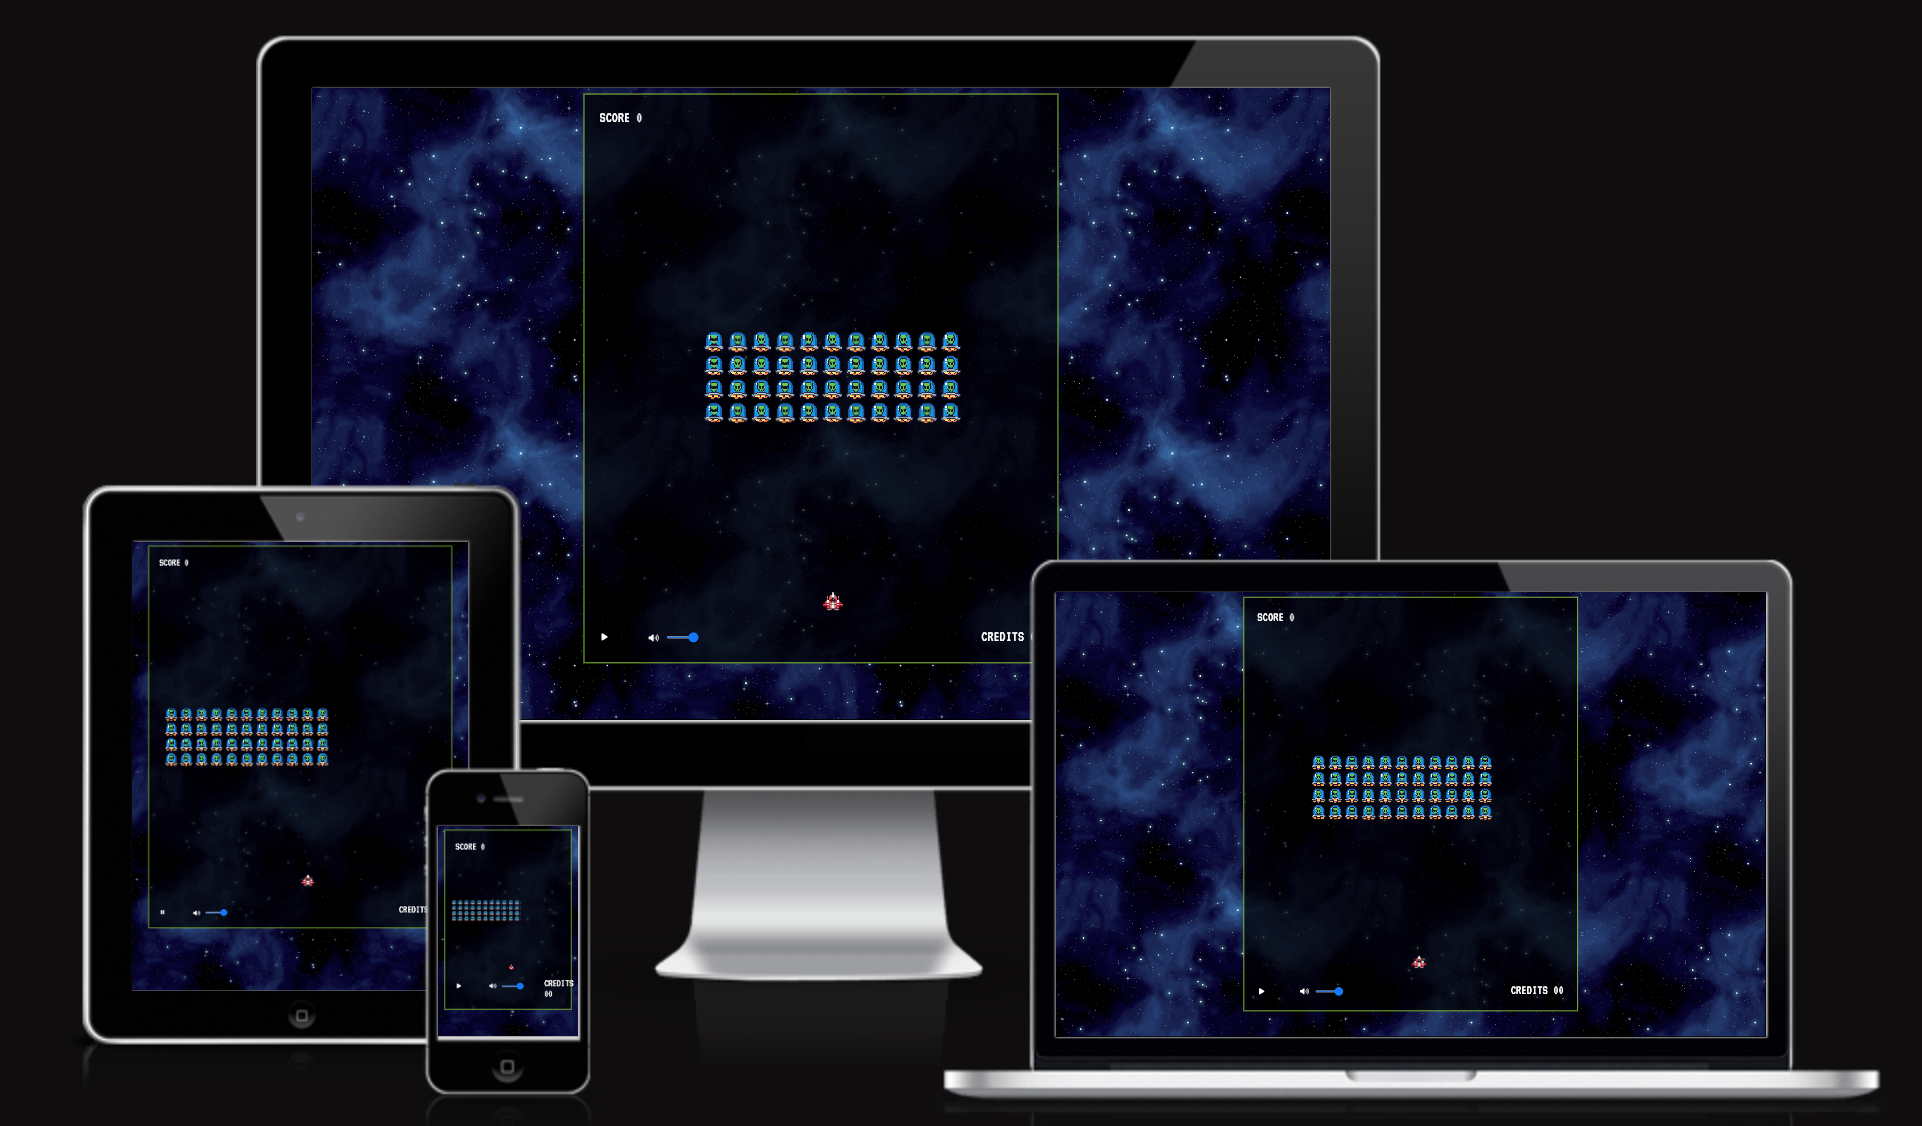
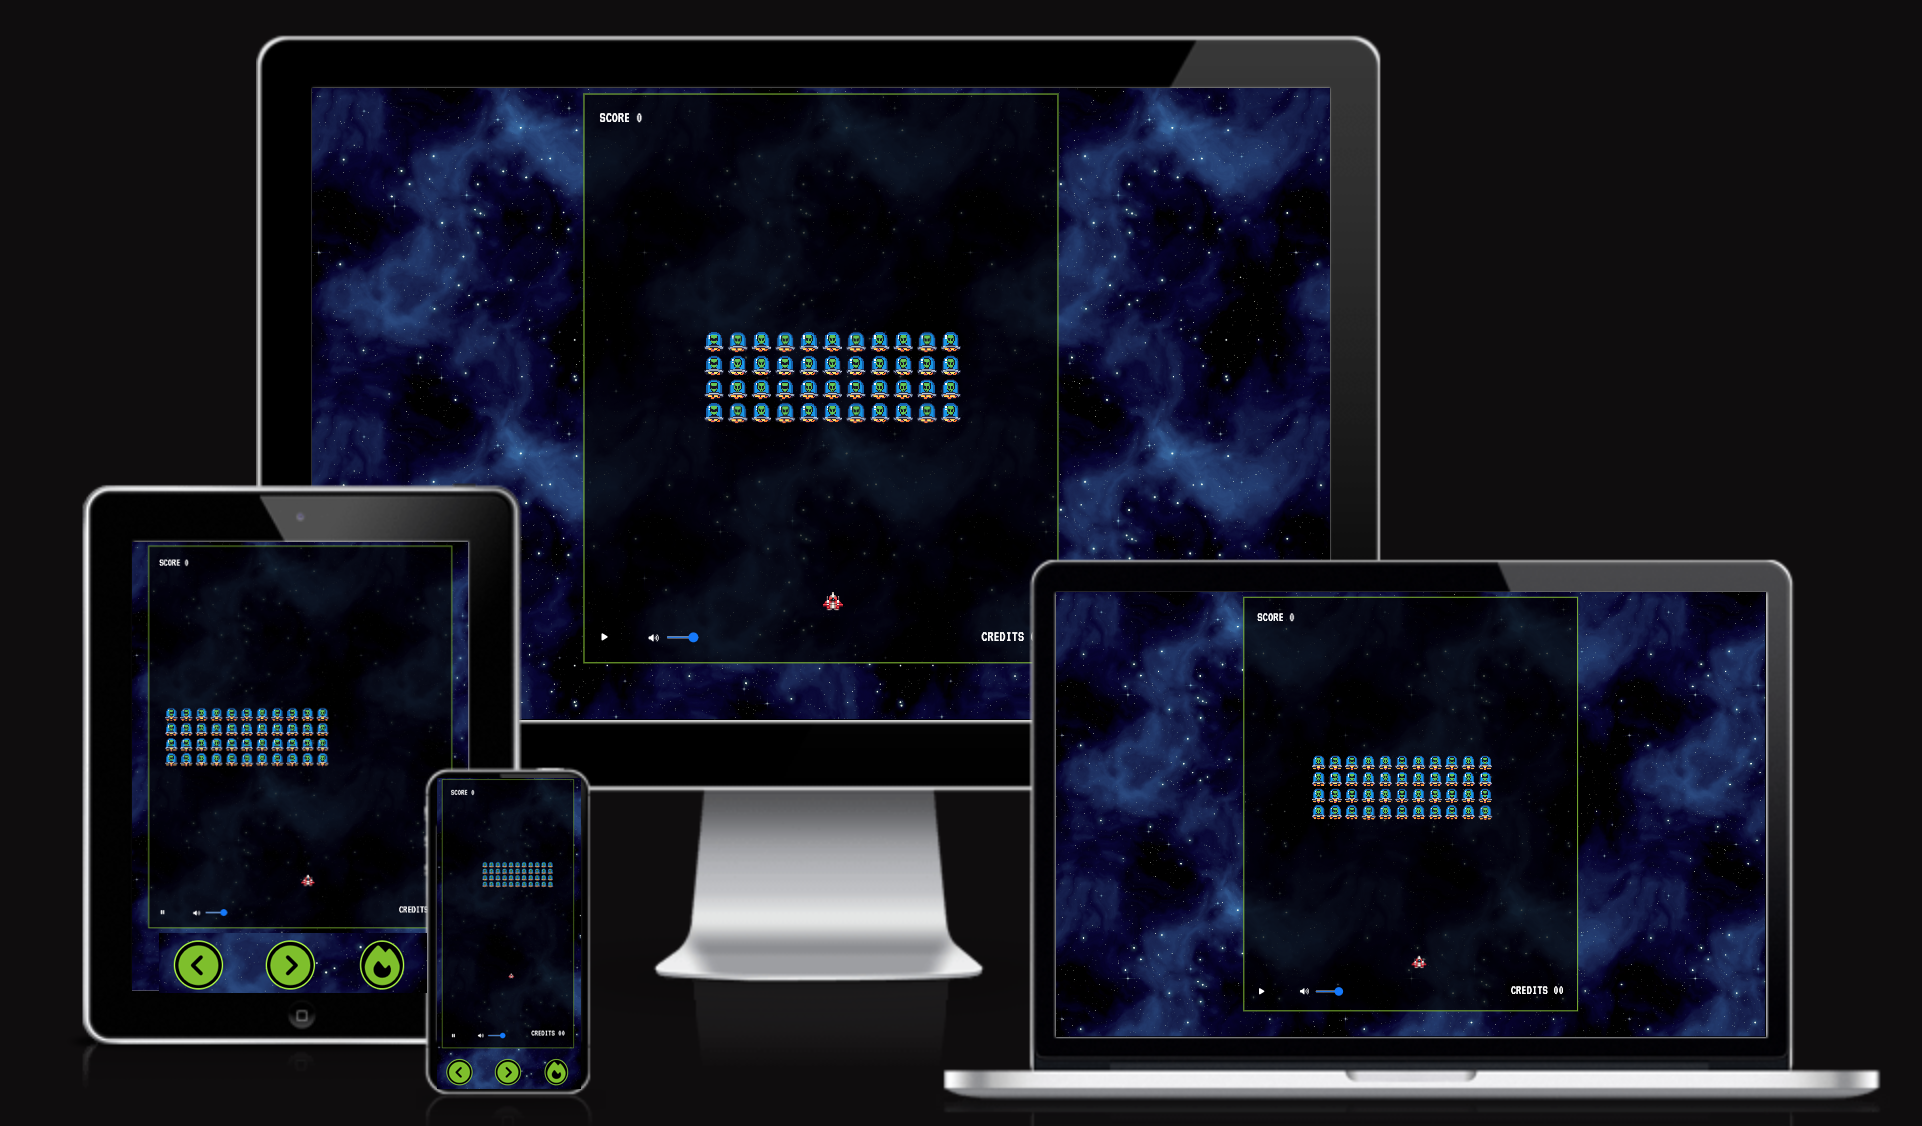
edit readme list of features section

Changed region(s): [[0.0624, 0.6838, 0.3122, 0.9947]]

diff --git a/README.md b/README.md
@@ -9,7 +9,9 @@ Our retro-style alien invader video game is a nostalgic nod to classic titles li
 ### Site Address
 https://cloud-monkey.github.io/alien-assault/index.html
 
-![alien assaulter img](/assets/read-me-images/project-overview-image.png)
+![am I responsive home screen img](/assets/read-me-images/project-overview-image.png)
+
+![am I responsive home screen img](/assets/read-me-images/project-overview-image2.png)
 
 ### Design direction
 Retro aesthetics: Embrace a pixelated 8-bit visual style.
@@ -22,39 +24,40 @@ Hero Section: Appealing title screen, a play button, and an introduction.
 Game Scree: Play area with retro graphics and sound, win and loss scenarios with modals and effects.
 Benefits: Highlights of the nostalgic and authentic experience.
 CTAs: Buttons to start playing immediately and return home once won or lost.
+Touch Screen controls for mobile devices.
 
 ## List of features
-Home screen
+#### Home screen
 
-8bit title music
+#### 8bit title music
 
-Animated Pixel Letters Game title GIF
+#### Animated Pixel Letters Game title GIF
 
-Animated Alien GIF
+#### Animated Alien GIF
 
-Play button
+#### Play button
 
-Audio controls (Play/Pause Mute and volume slider)
+#### Audio controls (Play/Pause Mute and volume slider)
 
-Credits readout in pixel font
+#### Credits readout in pixel font
 
-Game screen
+#### Game screen
 
-8bit game screen music
+#### 8bit game screen music
 
-Alien Assaulters GIF (Explosion effect/sound when hit, attack movement sequence)
+#### Alien Assaulters GIF (Explosion effect/sound when hit, attack movement sequence)
 
-StarShip (Laser shot graphic/sound, ability to move left and right)
+#### StarShip (Laser shot graphic/sound, ability to move left and right)
 
-Audio controls (Play/Pause Mute and volume slider)
+#### Audio controls (Play/Pause Mute and volume slider)
 
-Working score readout in pixel font
+#### Working score readout in pixel font
 
-Credits readout in pixel font
+#### Credits readout in pixel font
 
-Win Modal and StarShip hyperspace animation on win (Destroy all Alian Assaulters)
+#### Win Modal and StarShip hyperspace animation on win (Destroy all Alian Assaulters)
 
-Loss Modal and screen explosion animation on loss (Get hit by Alien or Aliens reach the bottom of the game screen)
+#### Loss Modal and screen explosion animation on loss (Get hit by Alien or Aliens reach the bottom of the game screen)
 
 
 ## UX/UI
